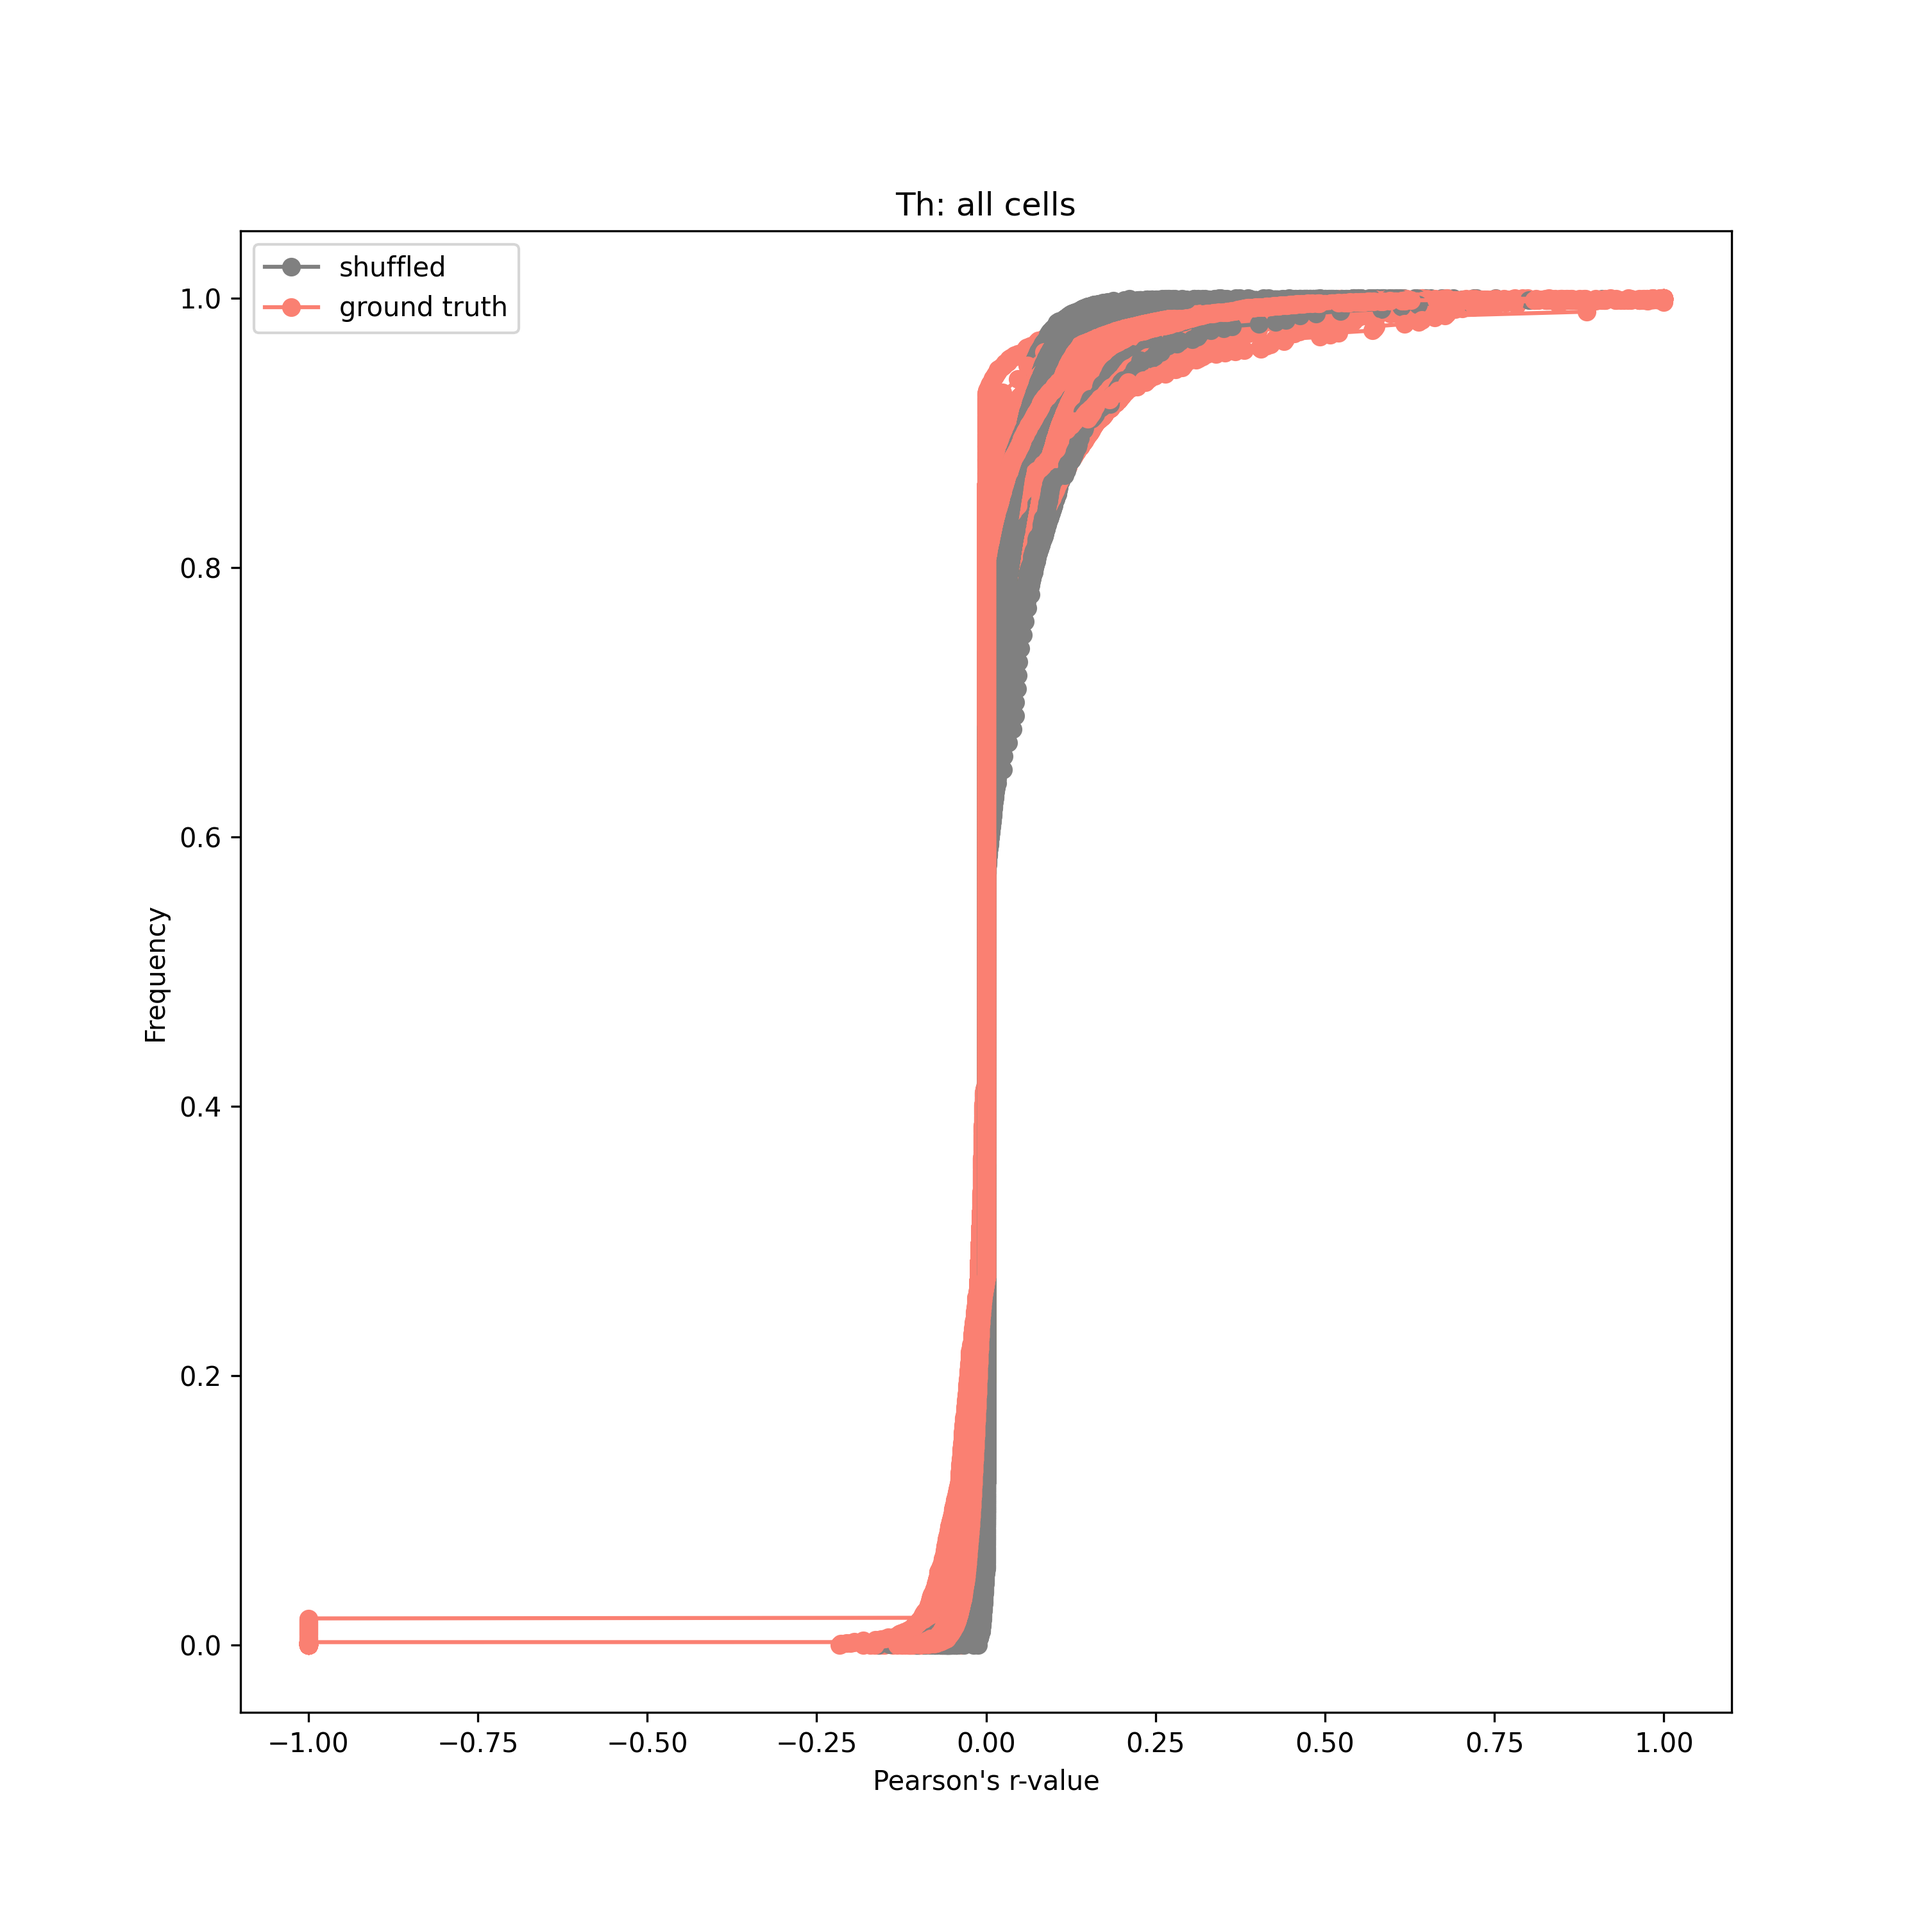
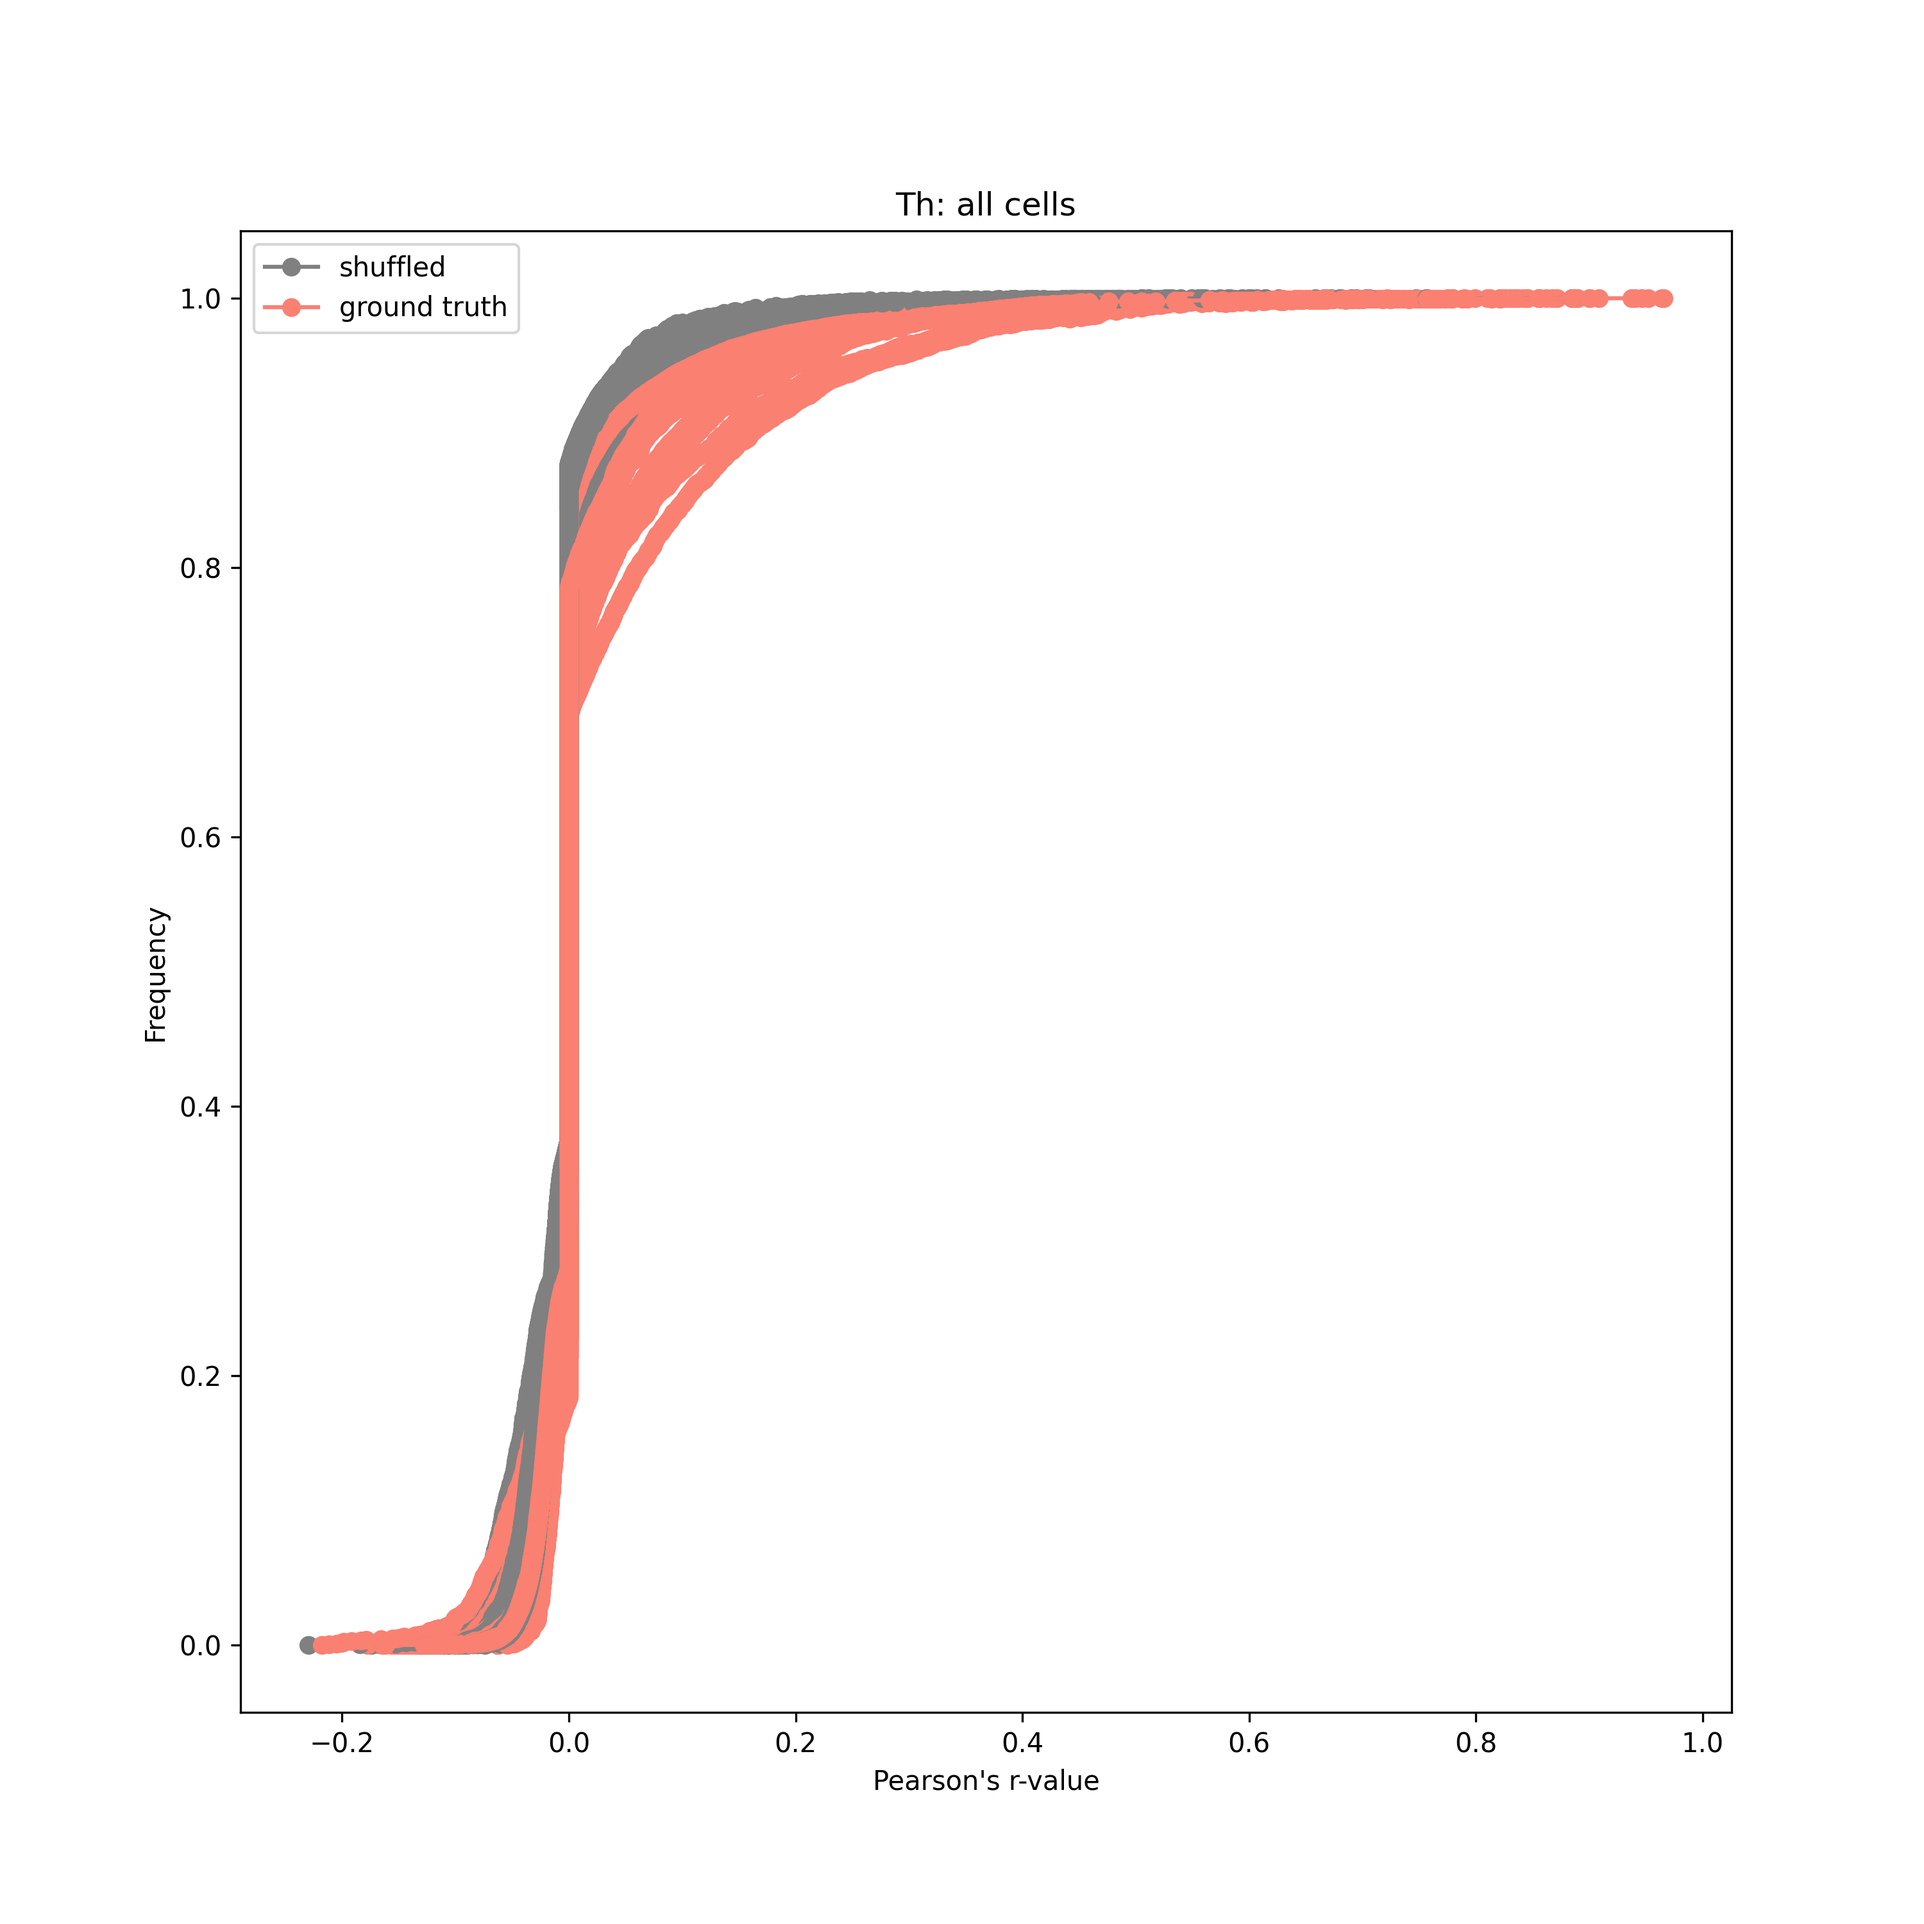
Updating utilities for data preprocessing.

Changed region(s): [[0.155, 0.124, 0.837, 0.868], [0.496, 0.899, 0.527, 0.93], [0.403, 0.899, 0.434, 0.93]]

diff --git a/analyses/benchmarking/random_networks/20230203_full_timeseries_shuffled_correlation.py b/analyses/benchmarking/random_networks/20230203_full_timeseries_shuffled_correlation.py
@@ -62,8 +62,8 @@ for count, mouse in enumerate(mouse_id_list):
             print(np.shape(data))
             print(event_data.shape)
             random_event_binned_data = generate_event_segmented(data=data.copy(), event_data=event_data)
-            data = data[:, 30:]
-            random_event_binned_data = random_event_binned_data[:, 30:]
+            data = data[:, 50:]
+            random_event_binned_data = random_event_binned_data[:, 50:]
             #random_event_binned_data = random_event_binned_data[:,30:]
             #data = data[:, 30:]
             random_nng = nng(random_event_binned_data)
@@ -124,9 +124,7 @@ for count, mouse in enumerate(mouse_id_list):
                         #plt.hist(np.tril(x).flatten(), bins=50, color='grey', alpha=0.3)
                         random_nng.plot_CDF(data=np.tril(x).flatten(), color = 'grey')
                         random_nng.plot_CDF(data=np.tril(y).flatten(), color='turquoise')
-                        #plt.hist(np.tril(y).flatten(), bins=50, color='turquoise', alpha=0.3)
-
-
+                        #plt.hist(np.tril(y).flatten(), bins=50, color='teal', alpha=0.3)
 
 
                     #print(f"The threshold is: {outlier_threshold}")
@@ -134,12 +132,13 @@ for count, mouse in enumerate(mouse_id_list):
                     # Store event trace results
                     results[count, 6] = outlier_threshold
                     results[count, 7] = stats.ks_2samp(random_vals, data_vals)[1]
-            plt.legend(['shuffled', 'ground truth'])
-            plt.xlabel("Pearson's r-value")
-            plt.ylabel("Frequency")
-            plt.title(f'{group}: {tag}')
-            #plt.savefig(EXPORT_PATH + f'full_shuffle_{group}_ConB_{tag}_cdf_binned_event.png', dpi=300)
-            plt.show()
+plt.legend(['shuffled', 'ground truth'])
+plt.xlim((-0.3, 0.7))
+plt.xlabel("Pearson's r-value")
+plt.ylabel("Frequency")
+plt.title(f'{group}: {tag}')
+plt.savefig(EXPORT_PATH + f'full_shuffle_{group}_ConB_{tag}_cdf_binned_event.png', dpi=300)
+plt.show()
 
 #%% EVENT ANALYSIS: Only looking at Context A (second half of data)
 # store: mouse_id, mean, median, max pearson, threshold event separated, ks-stat event separated, mean, median, max pearson, threshold bin-separated, ks-stat bin-separated
@@ -161,7 +160,11 @@ for count, mouse in enumerate(mouse_id_list):
             data = np.genfromtxt(path_to_data + f'/{file_str}_{day}_smoothed_calcium_traces.csv', delimiter=',')[:,1800:3600]
             random_data = np.genfromtxt(path_to_data + f'/{file_str}_{day}_smoothed_calcium_traces.csv', delimiter=',')[:,:]
             event_data = np.genfromtxt(path_to_data + f'/{file_str}_{event_day}_eventTrace.csv', delimiter=',')
-            random_event_binned_data = generate_event_segmented(data=random_data.copy(), event_data=event_data)
+            ## Clean up neurons with one event
+            data, event_data = remove_low_activity(data=data, event_data = event_data)
+            random_event_binned_data = generate_event_segmented(data=data.copy(), event_data=event_data)
+            data = data[:, 50:]
+            random_event_binned_data = random_event_binned_data[:, 50:]
             random_nng = nng(random_event_binned_data)
             random_ns_idx, random_A_idx, random_B_idx = random_nng.get_context_active(path_to_data + f'/{file_str}_{day}_neuron_context_active.csv')  # sort indices of context active cells
             if set_cs == 1:
@@ -216,13 +219,11 @@ for count, mouse in enumerate(mouse_id_list):
                         print(f"{file_str} {day} not significant")
                     else:
                         # Plot with threshold selected
-                        # plt.hist(np.tril(x).flatten(), bins=50, color='grey', alpha=0.3)
+                        #plt.hist(np.tril(x).flatten(), bins=50, color='grey', alpha=0.3)
                         random_nng.plot_CDF(data=np.tril(x).flatten(), color='grey')
                         random_nng.plot_CDF(data=np.tril(y).flatten(), color='salmon')
-                        # plt.hist(np.tril(y).flatten(), bins=50, color='turquoise', alpha=0.3)
+                        #plt.hist(np.tril(y).flatten(), bins=50, color='salmon', alpha=0.3)
                         # plt.savefig(EXPORT_PATH + f'{group}_{file_str}_{day}_{tag}_threshold_histogram_binned_event.png', dpi=300)
-
-                        # print(f"The threshold is: {outlier_threshold}")
 
                         # Store event trace results
                     results[count, 6] = outlier_threshold
@@ -260,7 +261,12 @@ for count, mouse in enumerate(mouse_id_list):
                    0:1800]
             random_data = np.genfromtxt(path_to_data + f'/{file_str}_{day}_smoothed_calcium_traces.csv', delimiter=',')[:,:]
             event_data = np.genfromtxt(path_to_data + f'/{file_str}_{event_day}_eventTrace.csv', delimiter=',')
-            random_event_binned_data = generate_event_segmented(data=random_data.copy(), event_data=event_data)
+            ## Clean up neurons with one event
+            data, event_data = remove_low_activity(data=data, event_data = event_data)
+            print(np.shape(data))
+            random_event_binned_data = generate_event_segmented(data=data.copy(), event_data=event_data)
+            data = data[:, 50:]
+            random_event_binned_data = random_event_binned_data[:, 50:]
             random_nng = nng(random_event_binned_data)
             random_ns_idx, random_A_idx, random_B_idx = random_nng.get_context_active(
                 path_to_data + f'/{file_str}_{day}_neuron_context_active.csv')  # sort indices of context active cells
@@ -351,7 +357,12 @@ for count, mouse in enumerate(mouse_id_list):
                    1800:3600]
             random_data = np.genfromtxt(path_to_data + f'/{file_str}_{day}_smoothed_calcium_traces.csv', delimiter=',')[:,:]
             event_data = np.genfromtxt(path_to_data + f'/{file_str}_{event_day}_eventTrace.csv', delimiter=',')
-            random_event_binned_data = generate_event_segmented(data=random_data.copy(), event_data=event_data)
+            ## Clean up neurons with one event
+            data, event_data = remove_low_activity(data=data, event_data = event_data)
+            print(np.shape(data))
+            random_event_binned_data = generate_event_segmented(data=data.copy(), event_data=event_data)
+            data = data[:, 50:]
+            random_event_binned_data = random_event_binned_data[:, 50:]
             random_nng = nng(random_event_binned_data)
             random_ns_idx, random_A_idx, random_B_idx = random_nng.get_context_active(
                 path_to_data + f'/{file_str}_{day}_neuron_context_active.csv')  # sort indices of context active cells
@@ -428,19 +439,19 @@ plt.show()
 time = random_event_binned_data[0,:]
 for first_neuron in range(0, len(x)):
     for second_neuron in range(0, len(x)):
-        if x[first_neuron, second_neuron] >= 0.7 and first_neuron != second_neuron:
+        if x[first_neuron, second_neuron] >= 0.5 and first_neuron != second_neuron:
+            plt.figure()
             plt.plot(time, random_event_binned_data[first_neuron+1,:])
             plt.plot(time, random_event_binned_data[second_neuron+1,:])
             r, p = stats.pearsonr(random_event_binned_data[first_neuron+1, :], random_event_binned_data[second_neuron+1, :])
             plt.title(f"R-value: {r}")
             plt.show()
 
-
 #%% Test pulling out specific neural traces to plot
 time = data[0,:]
 for first_neuron in range(0, len(y)):
     for second_neuron in range(0, len(y)):
-        if y[first_neuron, second_neuron] >= 0.4:
+        if y[first_neuron, second_neuron] >= 0.7:
             plt.plot(time, data[first_neuron+1,:])
             plt.plot(time, data[second_neuron+1,:])
             r, p = stats.pearsonr(data[first_neuron+1, :], data[second_neuron+1, :])
